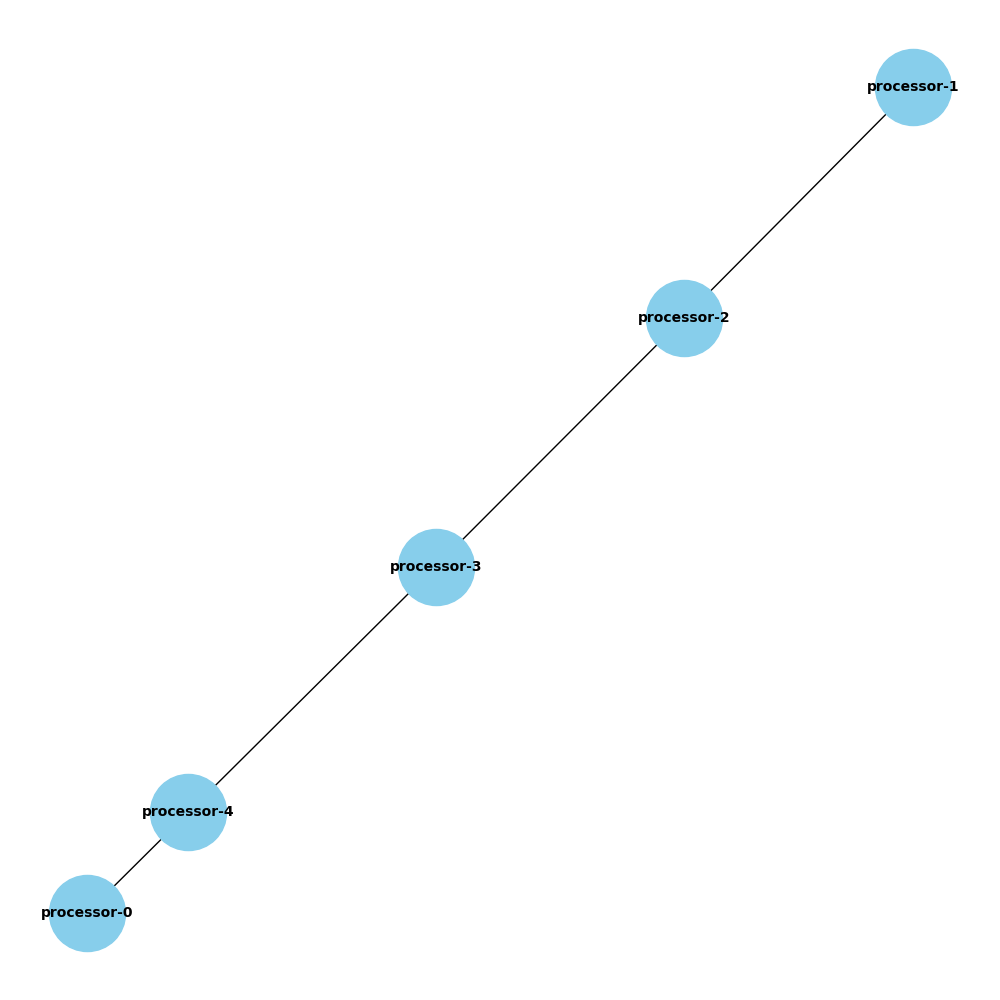
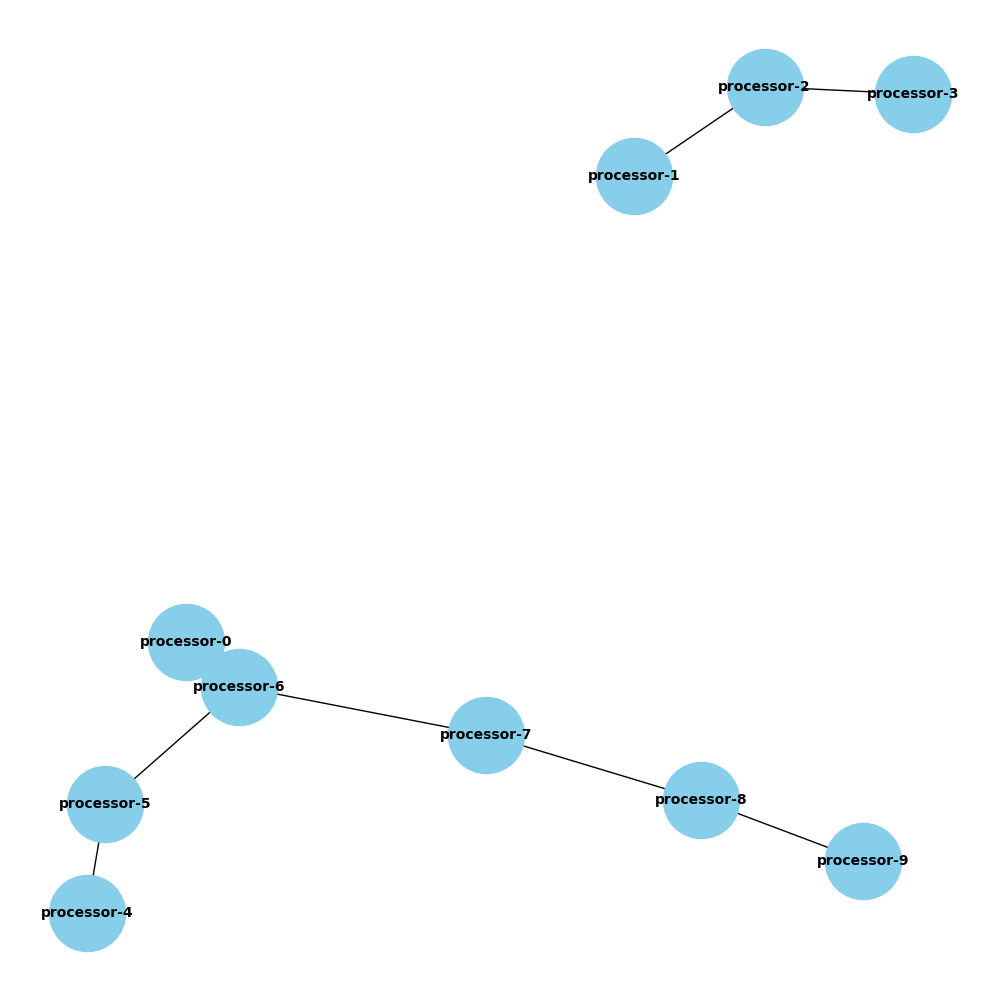
dry run

diff --git a/fed_relax.py b/fed_relax.py
@@ -30,7 +30,7 @@ neighbours_models = {}
 neighbour_lists = []
 local_train_errors, local_val_errors = [], []
 all_train_errors, all_val_errors = [], []
-desired_num_pods = 5
+desired_num_pods = 10
 service_name = "processor-service"
 namespace = "fed-relax"
 port = 4000
@@ -232,7 +232,7 @@ def visualize_and_save_graph(graph, output_path):
     plt.show()  # Display the graph
 
 
-def FedRelax(G, regparam=0, maxiter=5):
+def FedRelax(G, regparam=0, maxiter=100):
     # Determine the number of data points in the test set
     global neighbours_models, local_model, Xtrain, ytrain, Xtest, sample_weight, current_iteration
     testsize = Xtest.shape[0]
